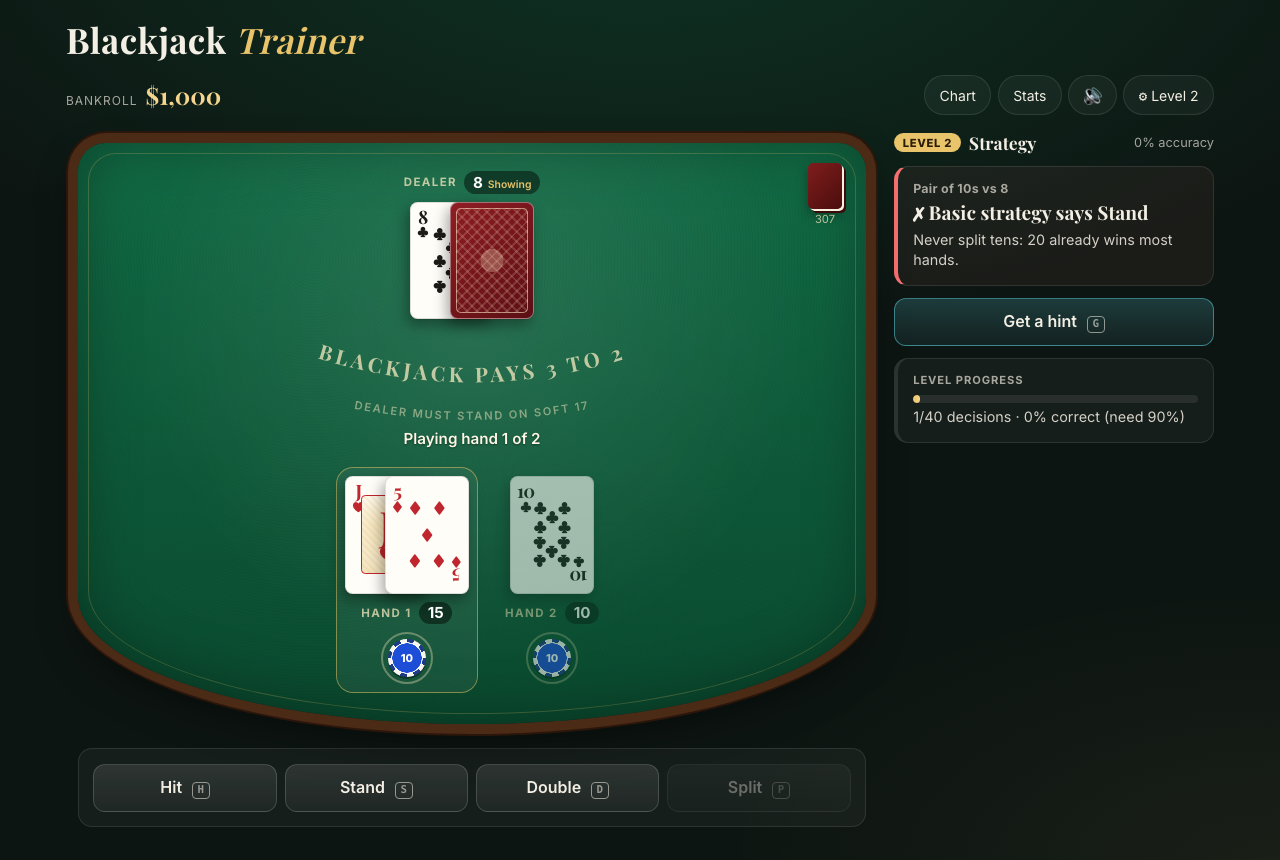
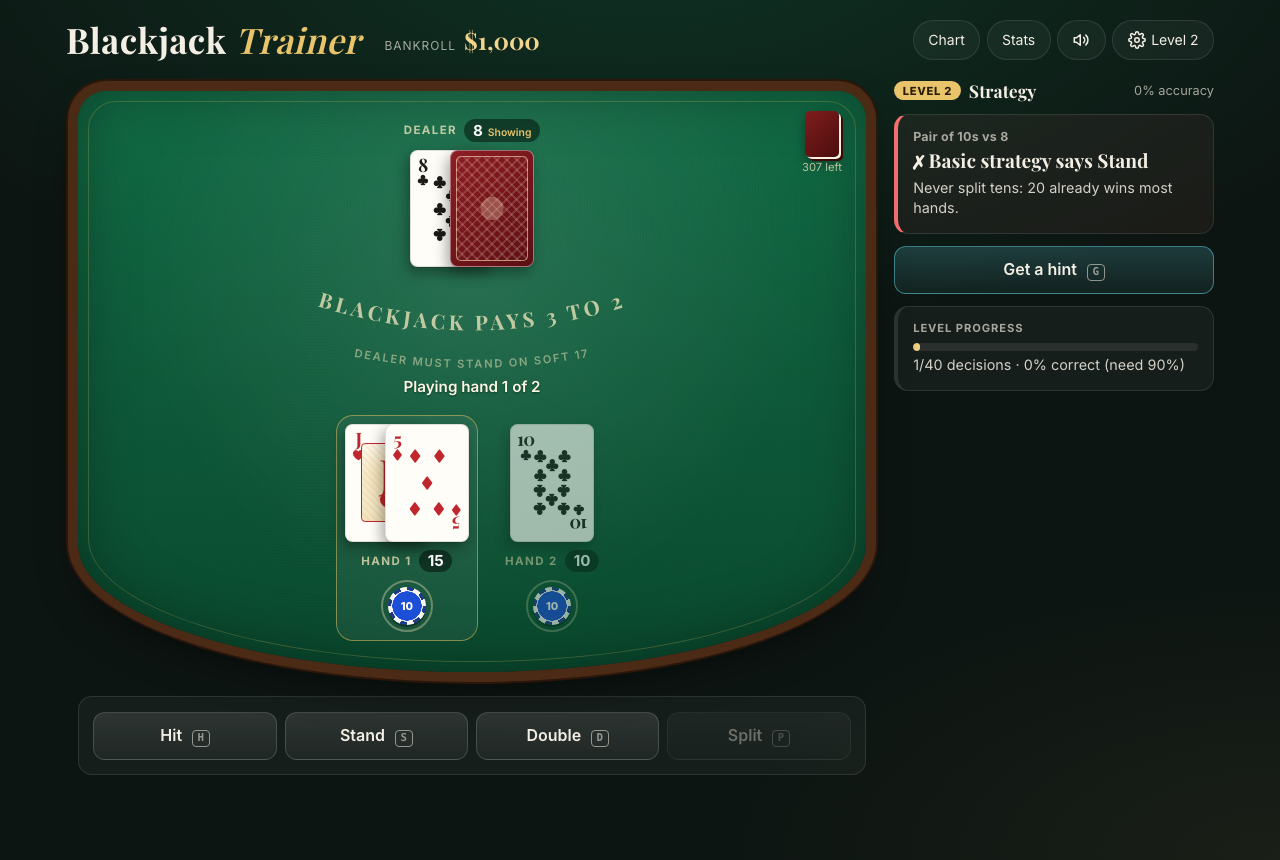
docs: refresh README screenshots and condense the mobile roadmap

diff --git a/README.md b/README.md
@@ -135,15 +135,14 @@ same way. Serve it over HTTPS so the service worker (install and offline play) r
 
 ## Roadmap
 
-### Expand to mobile
+### Mobile
 
-- ~~Make the web app installable as a PWA (manifest, icons, offline play via a service
-  worker).~~ Done, see [ADR-0014](docs/adr/0014-installable-pwa-with-offline-play.md).
-- ~~Wrap it as a native Android app (Capacitor).~~ Done, see
-  [ADR-0015](docs/adr/0015-android-app-with-capacitor.md). Still to do: iOS, Play Store
-  listing, CI-built releases, native haptics and audio.
-- Mobile polish: landscape layout, larger touch targets for split hands, swipe gestures for
-  hit/stand.
+The PWA ([ADR-0014](docs/adr/0014-installable-pwa-with-offline-play.md)) and Android app
+([ADR-0015](docs/adr/0015-android-app-with-capacitor.md)) are done. Still open:
+
+- iOS build, Play Store listing and CI-built releases.
+- Native haptics and audio.
+- Landscape layout and larger touch targets for split hands.
 
 ### Security testing
 
